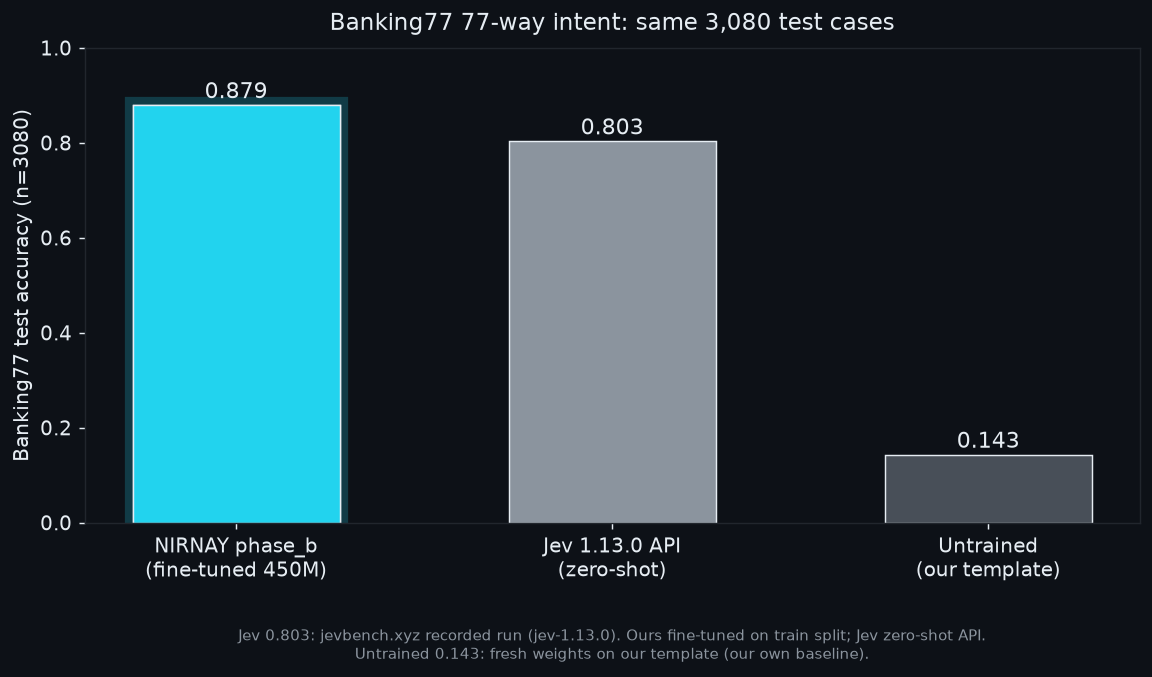
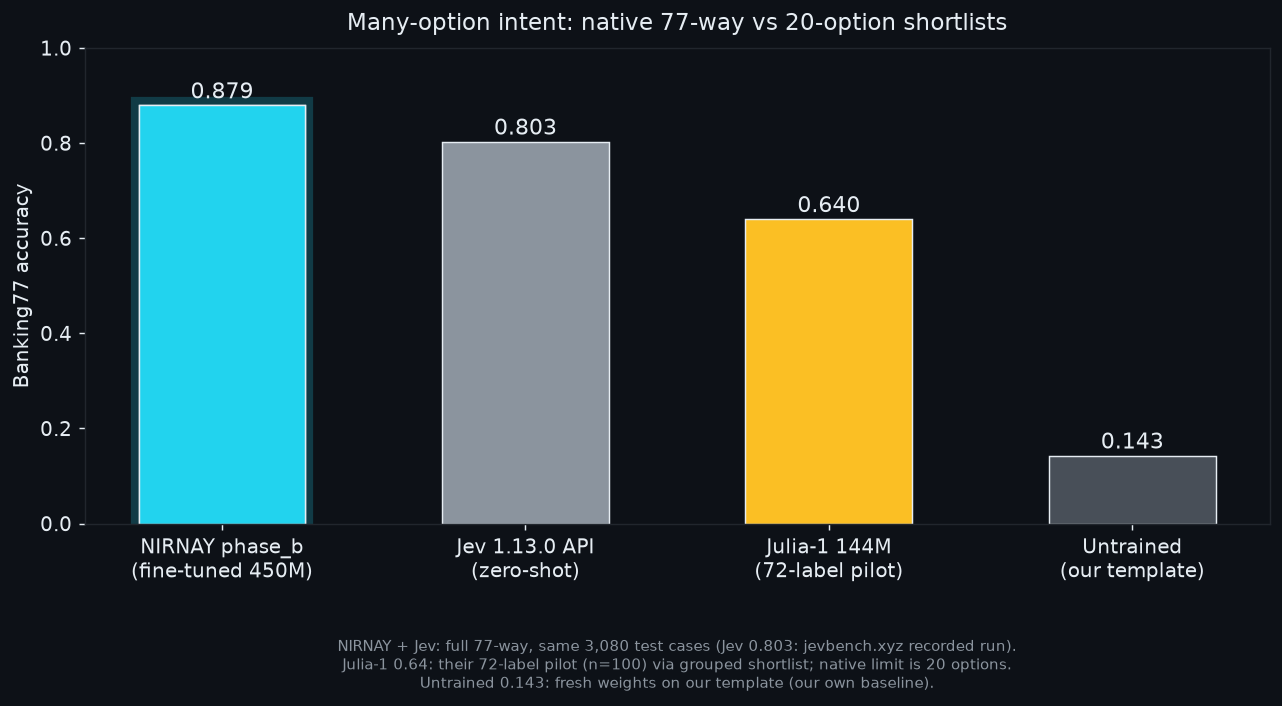
docs: 4-way comparison figure + Julia-1 row synced everywhere

diff --git a/MEMORY.md b/MEMORY.md
@@ -60,6 +60,7 @@ Session state for the NIRNAY repo. Update when decisions, verified facts, or pro
 - **RELEASE STAGED PRIVATE 2026-09-30 (verify before flipping public):** GH `eulogik/nirnay` pushed (repo PRIVATE confirmed) with rewritten README (badges, 4 matplotlib figures from measured data only, honest tables, FAQ, Eulogik links) + `eval/` transparency JSONs + `assets/`. HF **`eulogik/nirnay-450m`** created PRIVATE (9 files, all sha-verified: card with model-index frontmatter, phase_b.pt 466MB, 4 figures, 2 eval JSONs). Personal copy `GautamKishore/nirnay-450m` deleted after verification (404 confirmed). Latency measured: 209ms MPS / 361ms CPU batch-1. Killer claim verified: 0.8792 vs Jev 0.803 on same 3,080 cases (jevbench.xyz). Remaining for launch: flip both public, Space demo, Colab, GGUF via Laya converter path (week-2). NEVER submit to JevBench v1.5.4 at current intelligence (~#90 rank would poison narrative).
 - **METADATA MAXED 2026-09-30 (SEO/AEO/GEO):** GH description + homepage (eulogik.com) + 20 topics + Apache-2.0 detected + CITATION.cff + social preview art staged (`assets/social_preview.png`; GH has no API for it, set via Settings → General → Social preview). HF card: base_model lineage link (shows in Laya finetunes tab), 16 tags, model-index with accuracy+brier+ECE.
 - **COMPETITOR STUDY 2026-09-30 (Julia-1 + CLM, honest reassessment):** Julia-1 (SupersonicLabs, Sept 26): 144M, Apache-2.0, 302 likes / 1725 dl, Typed Decisions 73.15% beats Jev 72.70%, AG News 94%, $104 train cost, CPU/browser ONNX live, 6 Spaces, Dev.to launch. BUT Banking77 0.64 on easier setup (72-label pilot n=100, shortlist) vs our 0.8792 native 77-way n=3080; their card concedes grouped routing drops answers past their 2-20 native option limit. Attempted same-harness head-to-head with their checkpoint: blocked by transformers drift in their pinned stack (<5.1 API + native Bend lib needs building); stopped rather than ship shim-tower numbers. Cited comparison stands (24-pt gap, easier setup on their side, their own concession). CLM-8B (Stanford+NVIDIA, 1.6k stars, Apache-2.0): 8B tool-calling/gaming lane, GPU-bound, action caching. Different lane, no threat to CPU triage. Kev unchanged. VERDICT: release is still powerful, positioning sharpened to many-option accuracy (the one small-model task everyone else drops) + calibration + collapse-fix depth. README + launch post + HF card carry the Julia-1 row with setups stated.
+- **4-WAY COMPARISON FIGURE 2026-09-30:** benchmark chart now NIRNAY 0.879 / Jev 0.803 / Julia-1 0.64 / untrained 0.143 with setup footnotes in-figure (regenerated from recorded numbers, verified non-blank, synced to HF). Added "$0 cloud spend" training-cost line to README FAQ + launch post (owned Mac, marginal cloud bill zero).
 - **DISTRIBUTION STATE 2026-09-30:** HF download tracking ON (config.json uploaded, arch fields verified from cached Laya config). PyPI: name `nirnay` FREE, wheel builds valid (24 files, Apache-2.0 metadata), NO creds present so no upload possible (stays private per rule; one `twine upload` when ready). npm: NO, correctly so (Python model, nothing to ship on npm). Ollama: blocked on GGUF (llama.cpp Laya converter PR #29363 exists but custom heads need converter+graph work, weeks). OpenRouter: needs a hosted endpoint + provider onboarding (our FastAPI server is the seed; Dockerize later). Space demo BUILT and proven end-to-end (Gradio, real predictions incl. graceful garbage handling, full HTTP roundtrip card_arrival 0.97): `spaces/` + go-live checklist, awaiting GH flip (private dep). Colab notebook valid (7 cells, code syntax-checked, mirrors proven paths). Launch post drafted (`posts/devto_nirnay.md`). Paper verdict: YES to arXiv preprint (VQ-collapse study + 0.879 result is novel applied work); conference needs broader baselines (FSQ/EMA comparisons, multi-dataset). Commits pushed, tree clean.
   - JevBench v1.5.4 (today): Cygnet 73.7 #1 (no training!), Winnow-12B 74.4 intelligence / 76.4 sealed #2, Jev 1.13.0 72.1 #3, open 4Bs 70.4–71.9 (#4–#10) with sealed ~50. Harmonic mean punishes any weak axis; open-minus-sealed gap penalty kills tuned-to-public. Our ~55 public / lower sealed = rank ~#90+. DO NOT submit now (narrative poison).
   - Killer claim VERIFIED: jevbench.xyz recorded run (jev-1.13.0, Banking77, 3,080 cases) = 80.3% on the SAME test set where phase_b scores 87.92% (+7.6, apples-to-apples sample; caveat: we are fine-tuned, Jev zero-shot API — state it openly, it matches Laya's own fine-tune thesis).

diff --git a/posts/devto_nirnay.md b/posts/devto_nirnay.md
@@ -30,7 +30,7 @@ Fitted ECE 0.045 on test. Raw result JSONs ship in the repo under `eval/`. Repro
 
 Note on Julia-1: I tried running their checkpoint head-to-head in our harness and hit version drift in their pinned stack (their code targets transformers <5.1 plus a native backend that needs building). So the honest version is cited numbers, setups attached: their 0.64 comes from an easier setup than ours (72 labels, 100 items, shortlist) and still trails by 24 points. Native 77-way is exactly what their 2-to-20 option limit cannot do, and exactly what our pointer stage exists for.
 
-Speed, batch-1, measured: 209 ms on M4 GPU, 361 ms on CPU. 19/19 gate checks green. Trained on one Mac in about 4 hours.
+Speed, batch-1, measured: 209 ms on M4 GPU, 361 ms on CPU. 19/19 gate checks green. Trained on one Mac in about 4 hours, zero cloud bill.
 
 ## What it is bad at
 

diff --git a/README.md b/README.md
@@ -103,7 +103,7 @@ Bytes and token ids feed a frozen Laya encoder (LoRA adapters train). A concept 
 
 **What license?** Apache-2.0. Commercial use fine.
 
-**What hardware trained it?** One Mac (M4, 16GB). Full run about 4 hours. Receipts in `logs/` and `MEMORY.md`.
+**What hardware trained it?** One Mac (M4, 16GB). Full run about 4 hours. Cloud spend: $0. Receipts in `logs/` and `MEMORY.md`.
 
 **What is it bad at?** Long documents over 512 tokens, and JevBench-hard style probability/temporal reasoning (0.396). See Limits.
 
